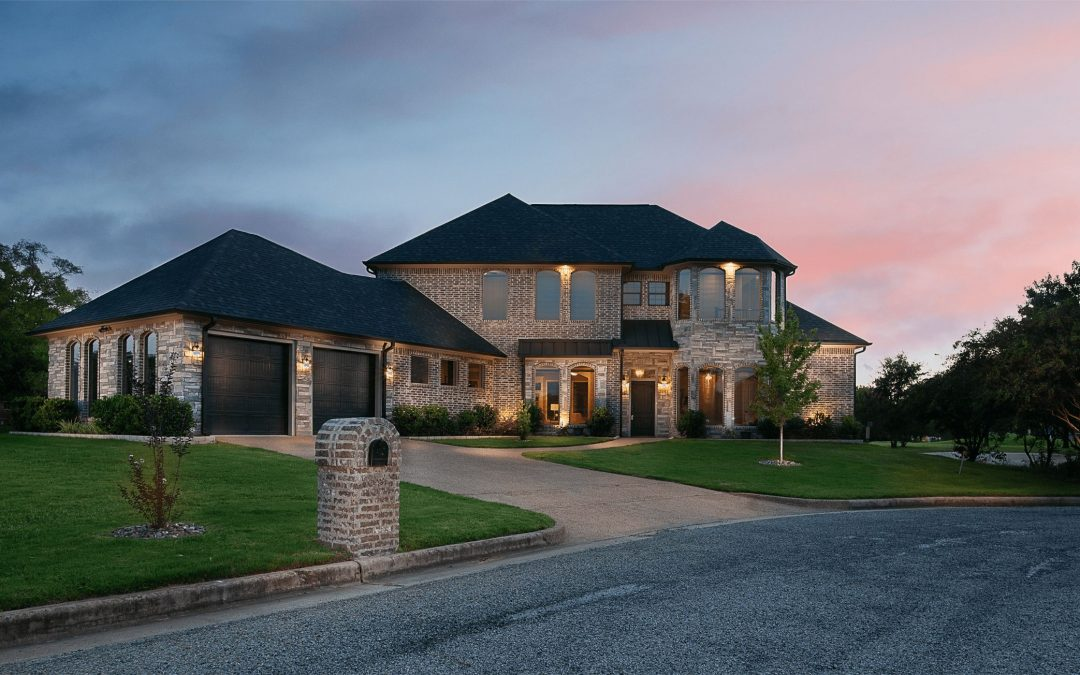
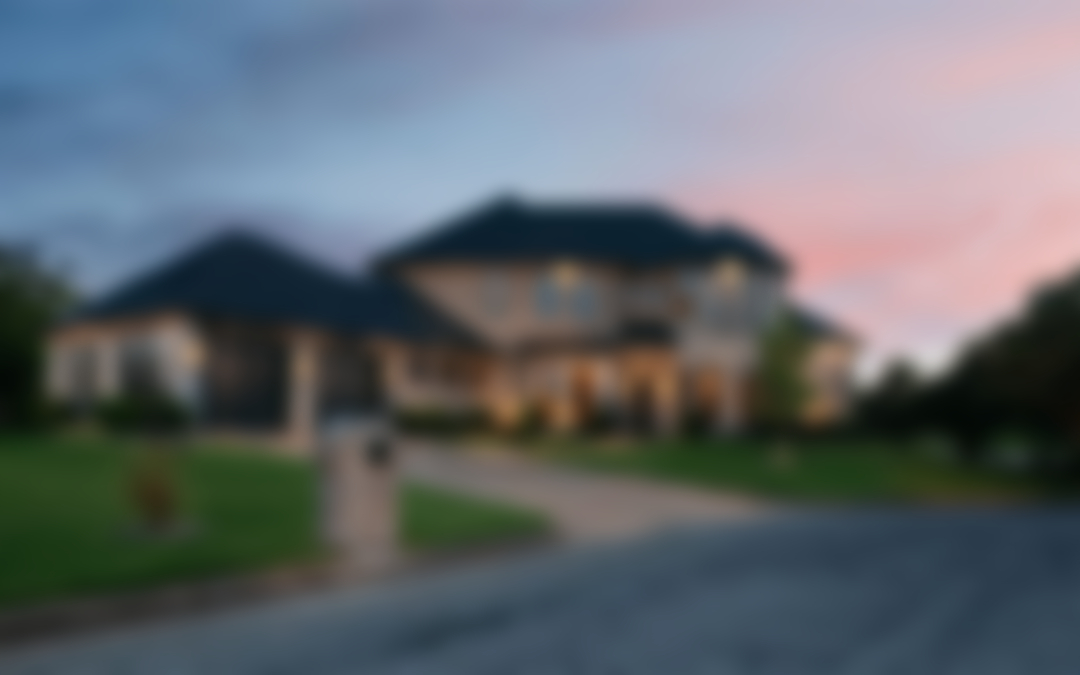
update Layout

diff --git a/frontend/src/components/Layout.tsx b/frontend/src/components/Layout.tsx
@@ -2,6 +2,7 @@ import { ReactNode } from "react";
 import Navbar from "./Navbar";
 import { useAppSelector } from "../redux/hooks";
 import Alert from "./Alert";
+import BackgroundImage from "../assets/images/house1.jpg";
 
 interface Props {
   children: ReactNode;
@@ -12,7 +13,15 @@ const Layout = (props: Props) => {
   return (
     <>
       <Navbar />
-      <div className="mt-[76px] md:mt-[84px]">
+      <div
+        className="mt-[76px] md:mt-[84px]"
+        style={{
+          backgroundImage: `url(${BackgroundImage})`,
+          backgroundRepeat: "no-repeat",
+          backgroundSize: "cover",
+          backgroundAttachment: "fixed",
+        }}
+      >
         {message && alertType && (
           <Alert message={message} alertType={alertType} />
         )}
